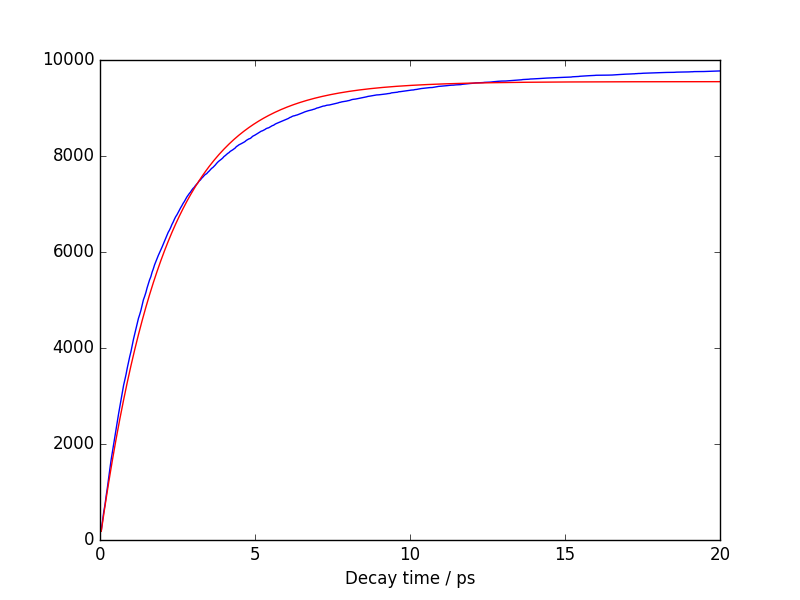
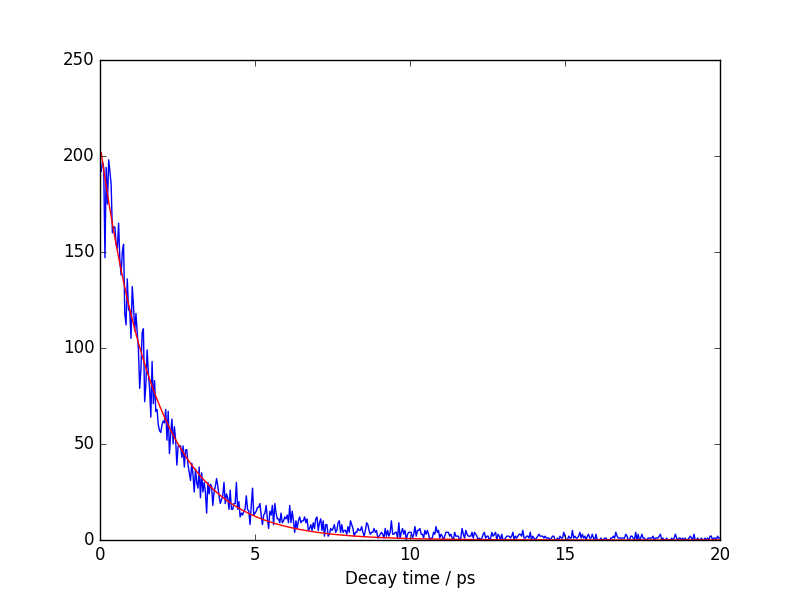
don’t use cumulative data in fit

diff --git a/Code/Lifetime.py b/Code/Lifetime.py
@@ -150,7 +150,7 @@ pl.close()
 
 # dstar mass dist
 ds_masses = [mass_toMeV(d.reconstructedDstarMass()) for d in data]
-pl.hist(masses, bins=100, histtype='step', fill=False)
+pl.hist(ds_masses, bins=100, histtype='step', fill=False)
 pl.xlabel(r'$D^{+*}$ Mass / MeV/$c^2$')
 pl.savefig('dstar-mass-dist.png')
 pl.close()
@@ -188,22 +188,23 @@ pl.close()
 hist, bin_edges = np.histogram(times, bins=500, range=(0, 20))
 num_events = np.sum(hist)
 print(num_events, ' events')
-cum = np.cumsum(hist)
 time = bin_edges[1:]
 
-pl.plot(time, cum, '-b')
+pl.plot(time, hist, '-b')
 pl.xlabel(r'Decay time / ps')
 pl.savefig('decay.png')
 pl.close()
 
 # decay time fitting
-po, po_cov = spo.curve_fit(lambda t, A, tau: A * (1 - np.exp(-t/tau)), time, cum, [num_events, 1.5]) #TODO: error analysis, np.repeat(0.03, l-transition_idx), absolute_sigma=True)
+po, po_cov = spo.curve_fit(lambda t, A, tau: A * np.exp(-t/tau), time, hist, [num_events, 1.5]) #TODO: error analysis, np.repeat(0.03, l-transition_idx), absolute_sigma=True)
 
-pl.plot(time, cum, '-b')
-pl.plot(time, np.vectorize(lambda t: po[0] * (1 - np.exp(-t/po[1])))(time), '-r')
+pl.plot(time, hist, '-b')
+pl.plot(time, np.vectorize(lambda t: po[0] * np.exp(-t/po[1]))(time), '-r')
 pl.xlabel(r'Decay time / ps')
 pl.savefig('decay-fitted.png')
 pl.close()
 
-print('partial lifetime\t' + str(po[1]) + ' fs')
-# print('partial width   \t' + str(mass_toMeV(hbar/(po[1]*1e-15))) + ' GeV/c2') # TODO: Calculate width
+partial_lifetime = po[1]
+print('partial lifetime\t' + str(partial_lifetime) + ' ps')
+# print(hbar/(partial_lifetime*1e-12), hbar)
+# print('partial width   \t' + str(c**2 * 1e-6 * hbar/(partial_lifetime*1e-12) / e) + ' MeV/c2')
